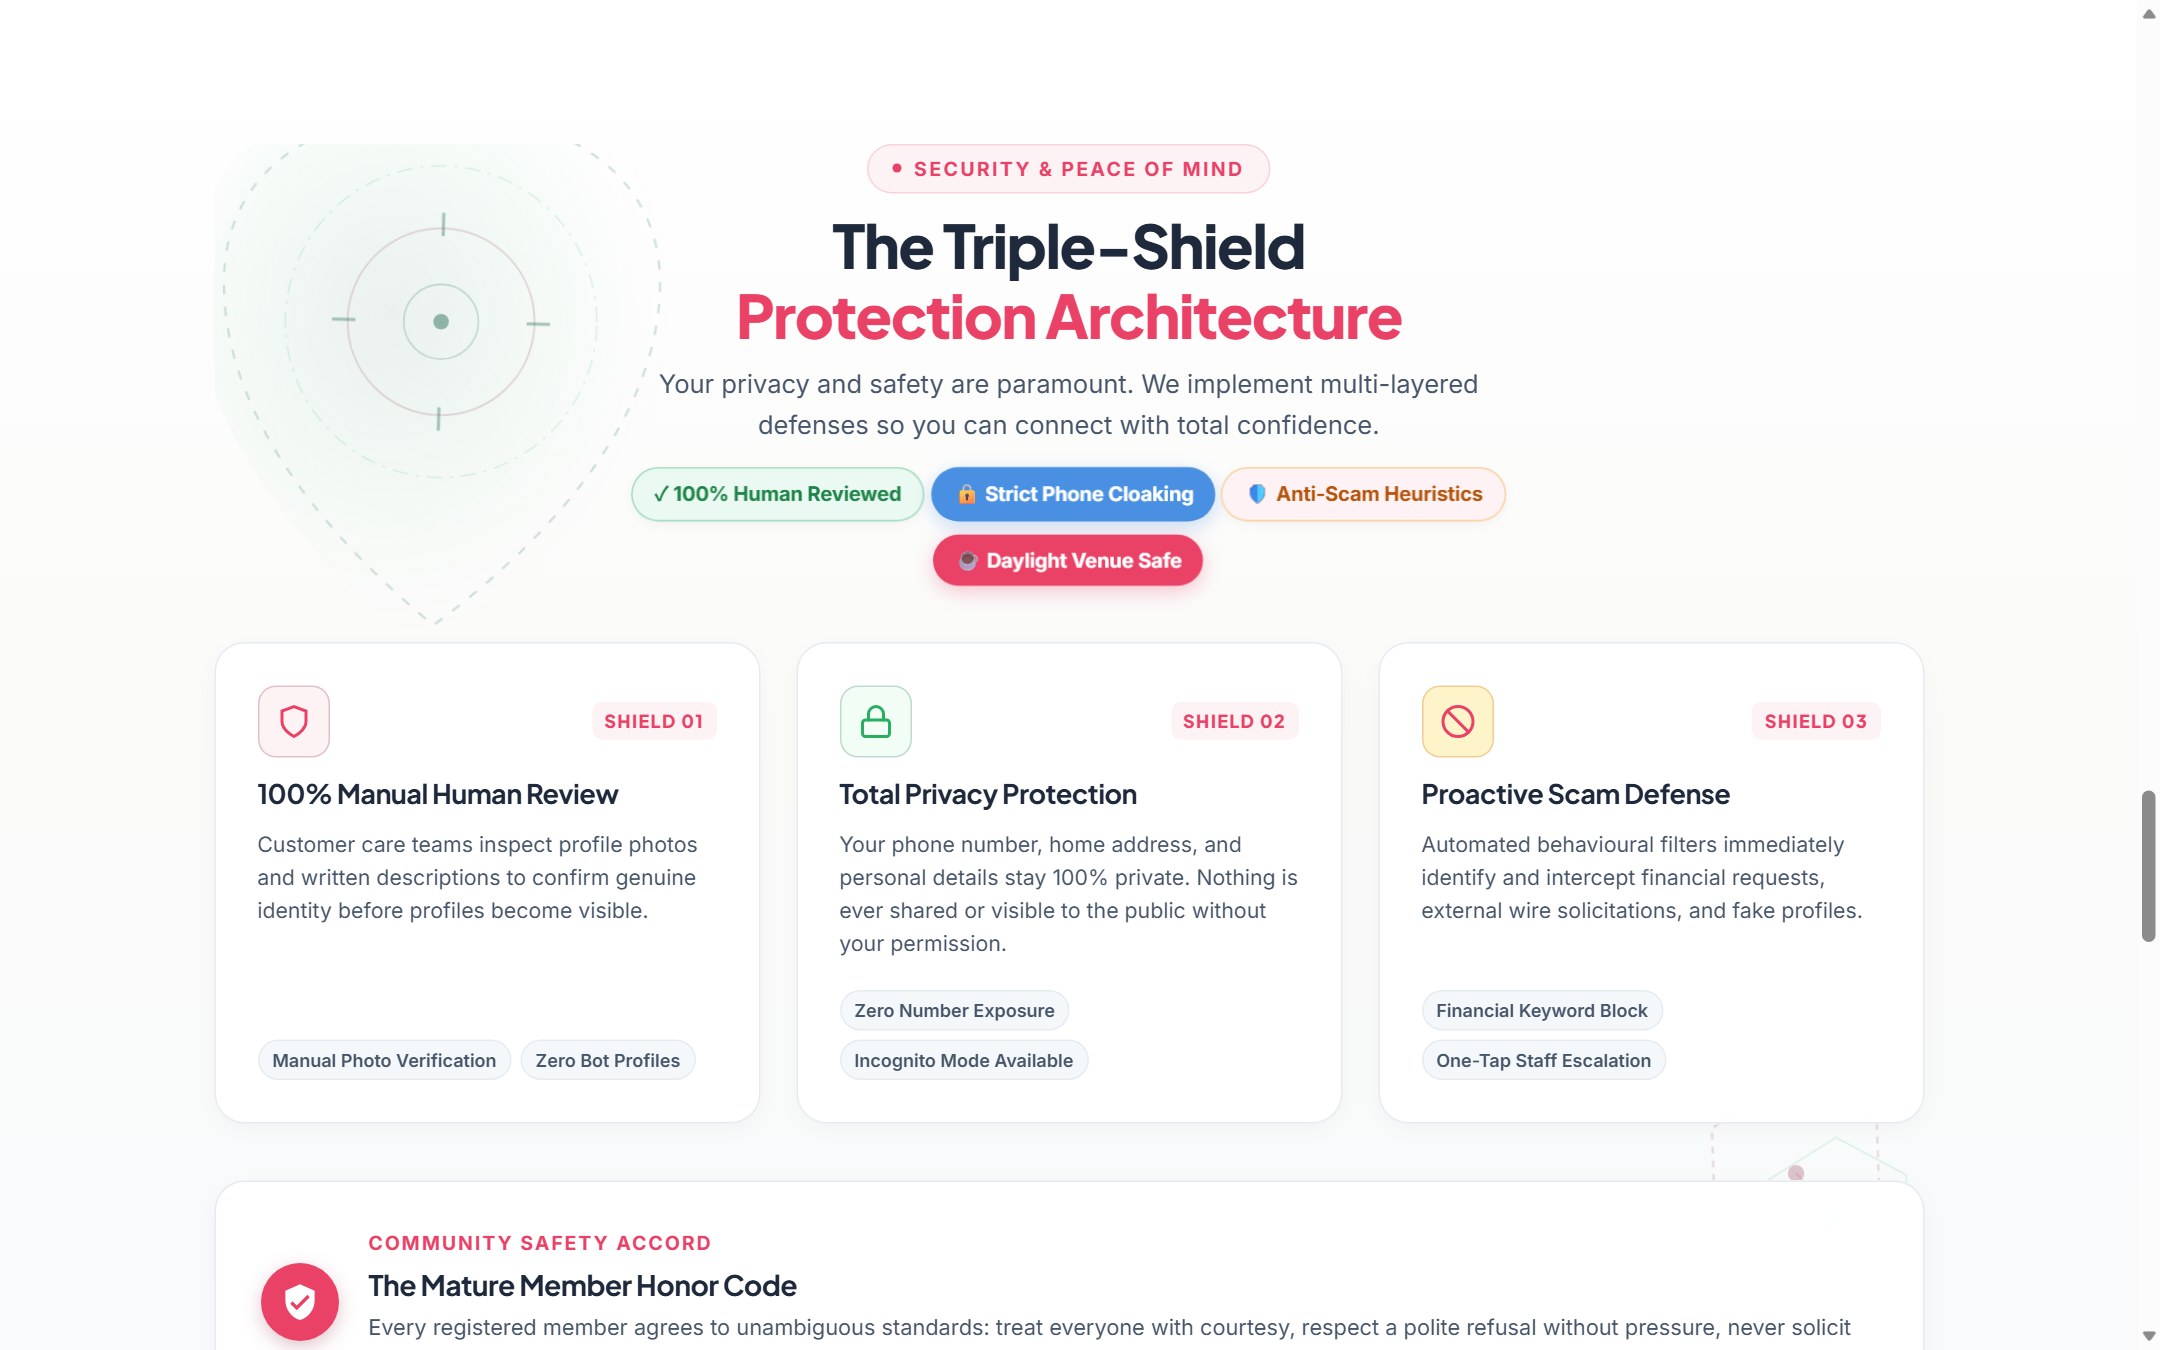
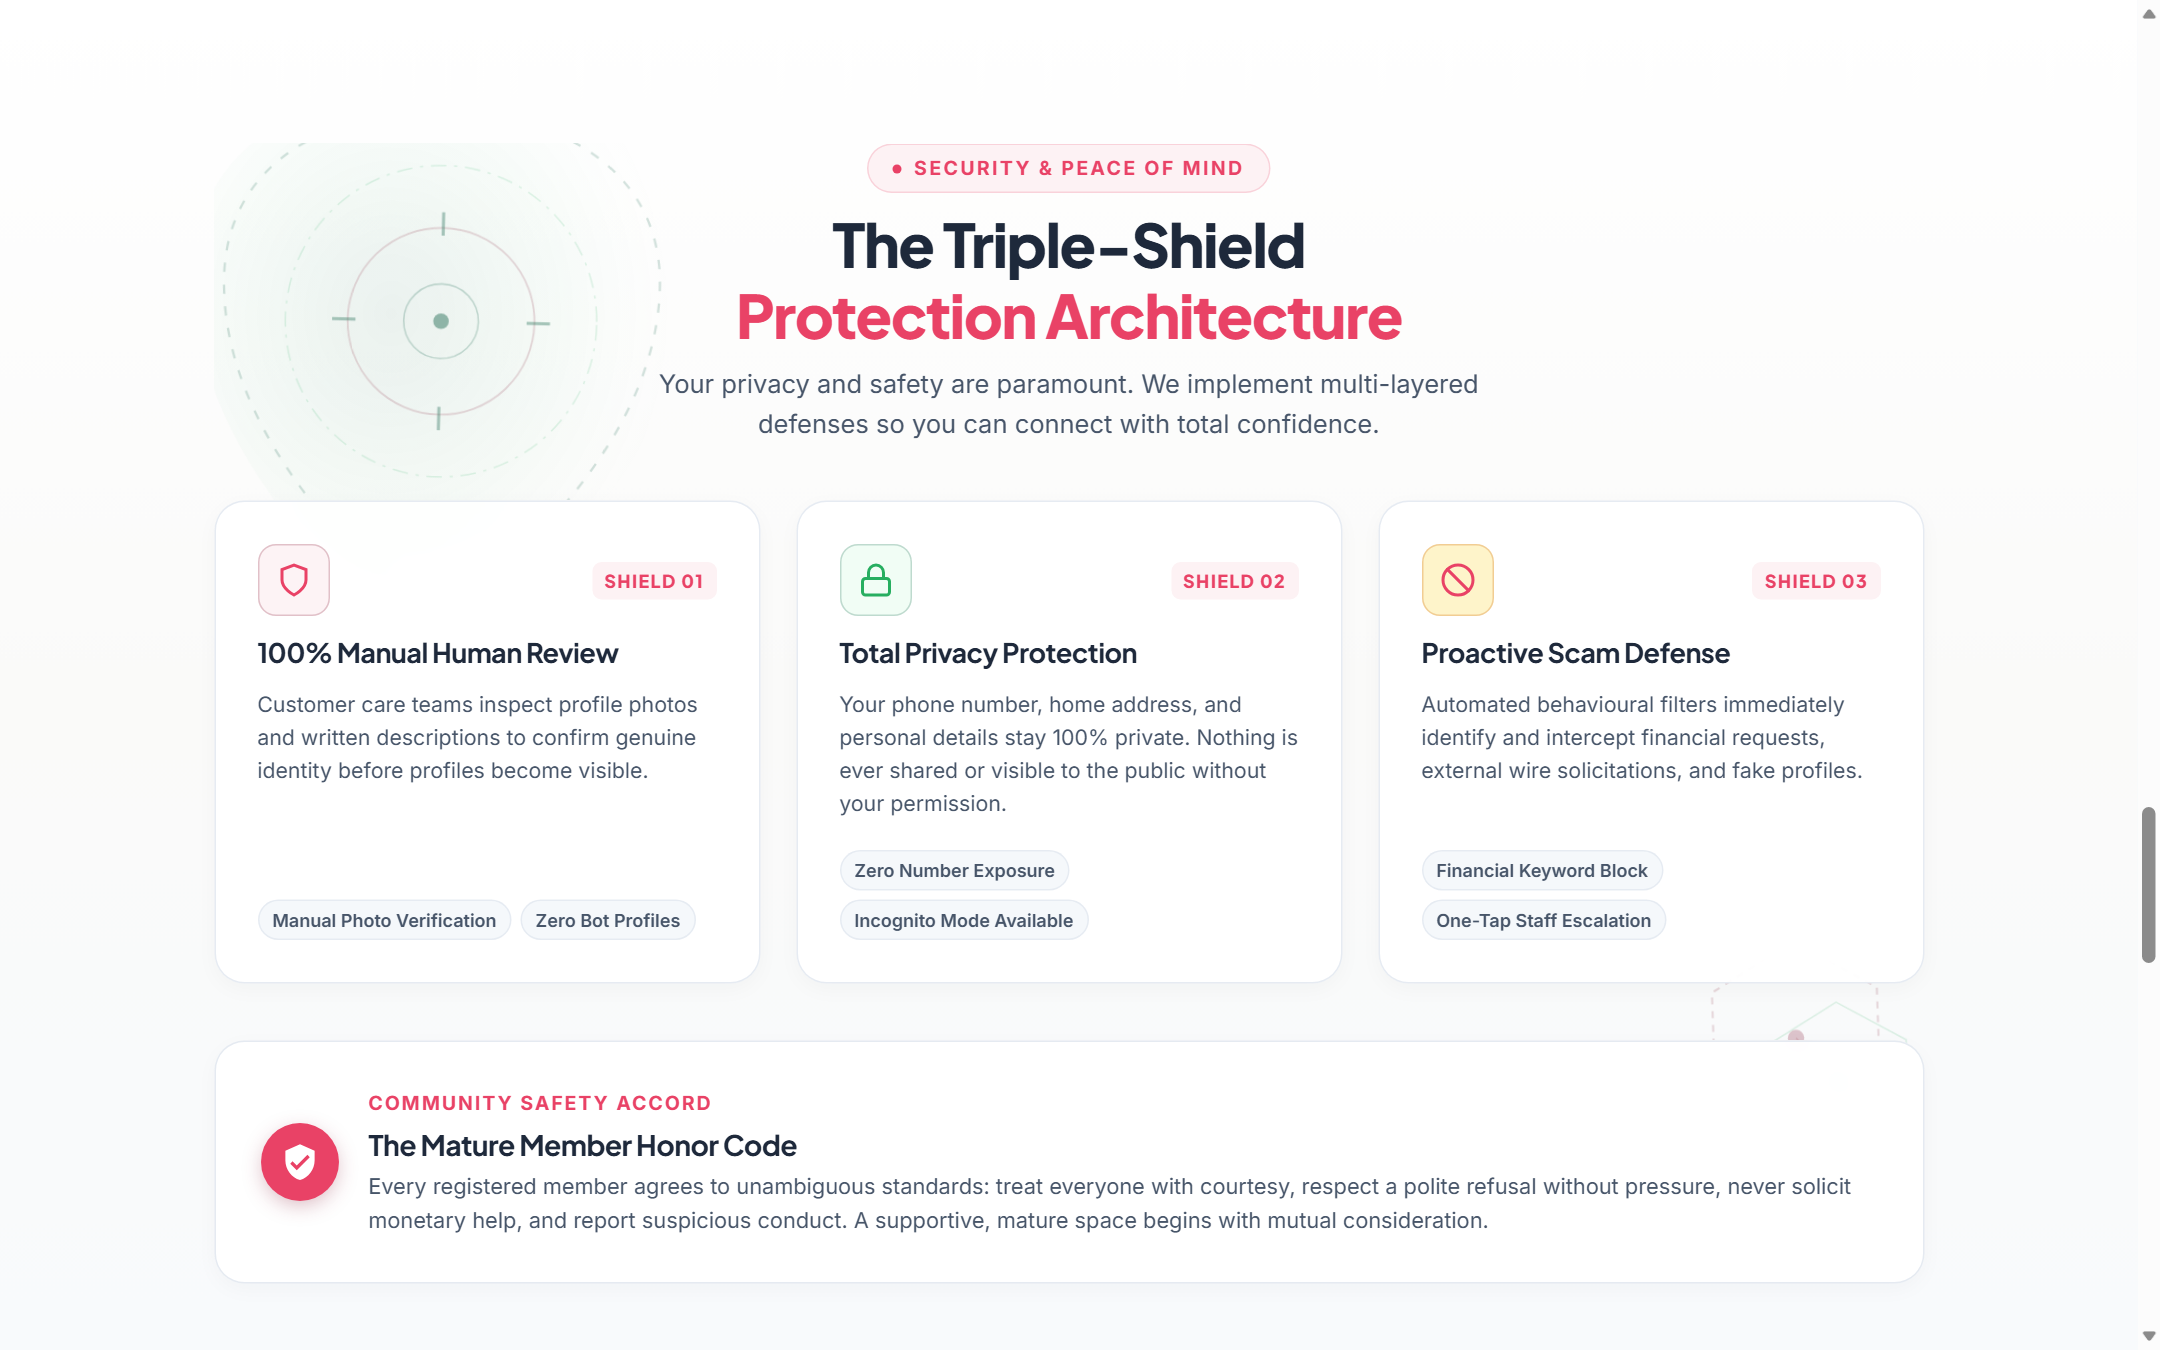
fix(header-tags): remove redundant repetitive floating badge pills across comparison, trust, and faq headers

diff --git a/index.html b/index.html
@@ -4561,15 +4561,6 @@ img {
   text-wrap: pretty;
 }
 
-/* Floating Reassurance Tags below Header */
-.benchmark-floating-tags {
-  display: flex;
-  flex-wrap: wrap;
-  justify-content: center;
-  gap: 10px;
-  margin-top: 6px;
-}
-
 /* 2x2 Comparative Benchmark Audit Grid */
 .benchmark-grid {
   display: grid;
@@ -4921,15 +4912,6 @@ img {
   text-wrap: pretty;
 }
 
-/* Floating Reassurance Badges below Header */
-.trust-floating-tags {
-  display: flex;
-  flex-wrap: wrap;
-  justify-content: center;
-  gap: 10px;
-  margin-top: 6px;
-}
-
 /* 3-Tier Protection Vault Grid */
 .trust-shield-grid {
   display: grid;
@@ -5255,15 +5237,6 @@ img {
   margin: 0;
   max-width: 620px;
   text-wrap: pretty;
-}
-
-/* Floating Reassurance Badges below Header */
-.faq-floating-tags {
-  display: flex;
-  flex-wrap: wrap;
-  justify-content: center;
-  gap: 10px;
-  margin-top: 6px;
 }
 
 /* Porcelain Card Accordion Group */
@@ -6598,13 +6571,6 @@ img {
           <p class="benchmark-stage-lead">
             A transparent look at how our environment protects your dignity, time, and peace of&nbsp;mind.
           </p>
-
-          <!-- Floating Reassurance Chips -->
-          <div class="benchmark-floating-tags" aria-hidden="true">
-            <span class="chip-popup chip-rose">&#x2713; Age 50+ Exclusivity</span>
-            <span class="chip-popup chip-juniper">&#x1F6E1; 100% ID Confirmed</span>
-            <span class="chip-popup chip-amber">&#x2615; Unhurried Pacing</span>
-          </div>
         </div>
 
         <!-- 4 Comparative Benchmark Audit Cards (2x2 Grid) -->
@@ -6774,14 +6740,6 @@ img {
           <p class="trust-stage-lead">
             Your privacy and safety are paramount. We implement multi-layered defenses so you can connect with total&nbsp;confidence.
           </p>
-
-          <!-- Floating Reassurance Status Badges -->
-          <div class="trust-floating-tags" aria-hidden="true">
-            <span class="chip-popup chip-juniper">&#x2713; 100% Human Reviewed</span>
-            <span class="chip-popup chip-voice">&#x1F512; Strict Phone Cloaking</span>
-            <span class="chip-popup chip-amber">&#x1F6E1;&#xFE0F; Anti-Scam Heuristics</span>
-            <span class="chip-popup chip-rose">&#x2615; Daylight Venue Safe</span>
-          </div>
         </div>
 
         <!-- 3-Tier Protection Vault Grid -->
@@ -6919,14 +6877,6 @@ img {
           <p class="faq-stage-lead">
             Direct, transparent details regarding security, daily recommendations, and privacy&nbsp;protection.
           </p>
-
-          <!-- Floating Reassurance Status Badges -->
-          <div class="faq-floating-tags" aria-hidden="true">
-            <span class="chip-popup chip-juniper">&#x2713; Free to Register</span>
-            <span class="chip-popup chip-voice">&#x1F512; Zero Number Exposure</span>
-            <span class="chip-popup chip-amber">&#x2615; Daylight Coffee Protocols</span>
-            <span class="chip-popup chip-rose">&#x2728; Human Concierge Care</span>
-          </div>
         </div>
 
         <!-- Porcelain Accordion Group inside Stage Island -->

diff --git a/components/trust/template.html b/components/trust/template.html
@@ -50,14 +50,6 @@
           <p class="trust-stage-lead">
             Your privacy and safety are paramount. We implement multi-layered defenses so you can connect with total&nbsp;confidence.
           </p>
-
-          <!-- Floating Reassurance Status Badges -->
-          <div class="trust-floating-tags" aria-hidden="true">
-            <span class="chip-popup chip-juniper">&#x2713; 100% Human Reviewed</span>
-            <span class="chip-popup chip-voice">&#x1F512; Strict Phone Cloaking</span>
-            <span class="chip-popup chip-amber">&#x1F6E1;&#xFE0F; Anti-Scam Heuristics</span>
-            <span class="chip-popup chip-rose">&#x2615; Daylight Venue Safe</span>
-          </div>
         </div>
 
         <!-- 3-Tier Protection Vault Grid -->

diff --git a/components/faq/template.html b/components/faq/template.html
@@ -47,14 +47,6 @@
           <p class="faq-stage-lead">
             Direct, transparent details regarding security, daily recommendations, and privacy&nbsp;protection.
           </p>
-
-          <!-- Floating Reassurance Status Badges -->
-          <div class="faq-floating-tags" aria-hidden="true">
-            <span class="chip-popup chip-juniper">&#x2713; Free to Register</span>
-            <span class="chip-popup chip-voice">&#x1F512; Zero Number Exposure</span>
-            <span class="chip-popup chip-amber">&#x2615; Daylight Coffee Protocols</span>
-            <span class="chip-popup chip-rose">&#x2728; Human Concierge Care</span>
-          </div>
         </div>
 
         <!-- Porcelain Accordion Group inside Stage Island -->

diff --git a/components/comparison/template.html b/components/comparison/template.html
@@ -47,13 +47,6 @@
           <p class="benchmark-stage-lead">
             A transparent look at how our environment protects your dignity, time, and peace of&nbsp;mind.
           </p>
-
-          <!-- Floating Reassurance Chips -->
-          <div class="benchmark-floating-tags" aria-hidden="true">
-            <span class="chip-popup chip-rose">&#x2713; Age 50+ Exclusivity</span>
-            <span class="chip-popup chip-juniper">&#x1F6E1; 100% ID Confirmed</span>
-            <span class="chip-popup chip-amber">&#x2615; Unhurried Pacing</span>
-          </div>
         </div>
 
         <!-- 4 Comparative Benchmark Audit Cards (2x2 Grid) -->

diff --git a/components/comparison/style.css b/components/comparison/style.css
@@ -114,15 +114,6 @@
   text-wrap: pretty;
 }
 
-/* Floating Reassurance Tags below Header */
-.benchmark-floating-tags {
-  display: flex;
-  flex-wrap: wrap;
-  justify-content: center;
-  gap: 10px;
-  margin-top: 6px;
-}
-
 /* 2x2 Comparative Benchmark Audit Grid */
 .benchmark-grid {
   display: grid;

diff --git a/components/faq/style.css b/components/faq/style.css
@@ -115,15 +115,6 @@
   text-wrap: pretty;
 }
 
-/* Floating Reassurance Badges below Header */
-.faq-floating-tags {
-  display: flex;
-  flex-wrap: wrap;
-  justify-content: center;
-  gap: 10px;
-  margin-top: 6px;
-}
-
 /* Porcelain Card Accordion Group */
 .faq-accordion-group {
   display: flex;

diff --git a/components/trust/style.css b/components/trust/style.css
@@ -120,15 +120,6 @@
   text-wrap: pretty;
 }
 
-/* Floating Reassurance Badges below Header */
-.trust-floating-tags {
-  display: flex;
-  flex-wrap: wrap;
-  justify-content: center;
-  gap: 10px;
-  margin-top: 6px;
-}
-
 /* 3-Tier Protection Vault Grid */
 .trust-shield-grid {
   display: grid;
